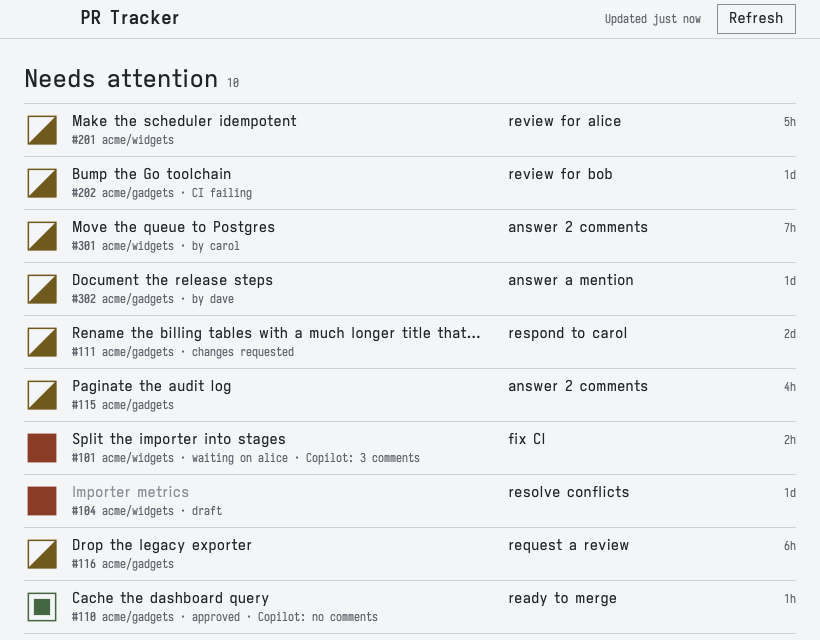
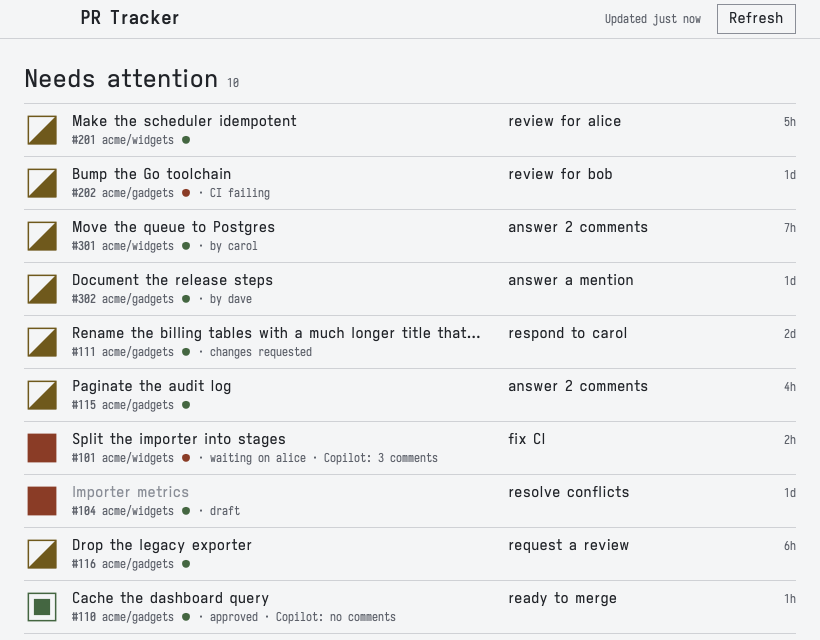
Show CI as a dot after the repository name
This replaces the amber approved glyph. The glyph says who has the
ball, and CI is a second state that every row can show: red, amber
while running, green.

diff --git a/Sources/TrackerApp/Views/PullRequestRow.swift b/Sources/TrackerApp/Views/PullRequestRow.swift
@@ -25,7 +25,7 @@ struct PullRequestRow: View {
                         .textStyle(.control)
                         .foregroundStyle(pullRequest.isDraft ? Palette.lineStrong : Palette.ink)
                         .lineLimit(1)
-                    Text("\(Text(verbatim: "#\(pullRequest.number)").font(TextStyle.labelStrong.font)) \(snapshot.facts(about: pullRequest).joined(separator: " · "))")
+                    facts
                         .textStyle(.label)
                         .foregroundStyle(quiet)
                         .lineLimit(2)
@@ -46,6 +46,16 @@ struct PullRequestRow: View {
         .padding(.vertical, Space.s2)
         .padding(.leading, CGFloat(depth) * Self.glyphSize)
         .overlay(alignment: .leading) { stackGuides }
+    }
+
+    /// The number, the repository, a dot in the colour of its CI, then the other facts.
+    private var facts: Text {
+        var line = Text("\(Text(verbatim: "#\(pullRequest.number)").font(TextStyle.labelStrong.font)) \(pullRequest.repository)")
+        if let color = pullRequest.checks.color {
+            line = Text("\(line) \(Text(verbatim: "●").foregroundStyle(isParked ? Palette.lineStrong : color))")
+        }
+        let rest = snapshot.facts(about: pullRequest)
+        return rest.isEmpty ? line : Text("\(line) · \(rest.joined(separator: " · "))")
     }
 
     /// A draft with nothing for me to do. The whole row drops to the disabled grey.

diff --git a/Sources/TrackerApp/Presentation/Status+Glyph.swift b/Sources/TrackerApp/Presentation/Status+Glyph.swift
@@ -3,12 +3,12 @@ import SwiftUI
 import TrackerCore
 
 extension Status {
-    /// Shape carries the meaning and colour repeats it. Approved with checks running is the one mix: the approved shape in the colour for not yet.
+    /// Shape carries the meaning and colour repeats it, so the two never disagree.
     var glyph: Glyph.Fill {
         switch self {
         case .failing: .solid
         case .attention: .half
-        case .ready, .approved: .nested
+        case .ready: .nested
         case .waiting: .empty
         }
     }
@@ -16,9 +16,21 @@ extension Status {
     var color: Color {
         switch self {
         case .failing: Palette.statusFailing
-        case .attention, .approved: Palette.statusAttention
+        case .attention: Palette.statusAttention
         case .ready: Palette.statusReady
         case .waiting: Palette.inkMuted
+        }
+    }
+}
+
+extension Checks {
+    /// The colour of the CI dot. Nil when the pull request has no checks.
+    var color: Color? {
+        switch self {
+        case .failing: Palette.statusFailing
+        case .pending: Palette.statusAttention
+        case .passing: Palette.statusReady
+        case .none: nil
         }
     }
 }

diff --git a/Sources/TrackerCore/Rules/Status.swift b/Sources/TrackerCore/Rules/Status.swift
@@ -8,8 +8,6 @@ public enum Status: Int, Comparable, Sendable {
     case attention
     /// It is approved and can merge, now or when the pull request beneath it does.
     case ready
-    /// It is approved, and its checks are still running.
-    case approved
     /// The ball is with someone else.
     case waiting
 
@@ -22,8 +20,7 @@ extension NextStep {
         case .fixChecks, .resolveConflicts: .failing
         case .review, .answerComments, .answerMention, .respond, .requestReview: .attention
         case .merge, .waitingOnStack: .ready
-        case .waitingOnChecks: .approved
-        case .waitingOnReviewers, .waitingOnAuthor, .draft: .waiting
+        case .waitingOnReviewers, .waitingOnChecks, .waitingOnAuthor, .draft: .waiting
         }
     }
 }

diff --git a/Tests/TrackerCoreTests/NextStepTests.swift b/Tests/TrackerCoreTests/NextStepTests.swift
@@ -217,7 +217,6 @@ import Testing
         #expect(Snapshot.fixture().status(of: .fixture(checks: .failing, unansweredThreads: 1)) == .failing)
         #expect(Snapshot.fixture().status(of: .fixture(reviewDecision: .approved, unansweredThreads: 1)) == .attention)
         #expect(Snapshot.fixture().status(of: .fixture(reviewDecision: .approved)) == .ready)
-        #expect(Snapshot.fixture().status(of: .fixture(checks: .pending, reviewDecision: .approved)) == .approved)
         #expect(Snapshot.fixture().status(of: .fixture(requestedReviewers: ["bob"])) == .waiting)
         #expect(Snapshot.fixture().status(of: .fixture(isDraft: true)) == .waiting)
     }

diff --git a/Sources/TrackerApp/Presentation/Snapshot+Facts.swift b/Sources/TrackerApp/Presentation/Snapshot+Facts.swift
@@ -27,9 +27,9 @@ extension Snapshot {
         }
     }
 
-    /// The quiet facts after the pull request's number. They add what the next step does not already say.
+    /// The quiet facts after the pull request's number and repository. They add what the next step does not already say.
     func facts(about pr: PullRequest) -> [String] {
-        var facts = [pr.repository]
+        var facts: [String] = []
         let isMine = pr.author == viewer
         let steps = nextSteps(for: pr)
         if pr.isDraft, steps != [.draft] { facts.append("draft") }

diff --git a/docs/design-system/README.md b/docs/design-system/README.md
@@ -35,7 +35,7 @@ Rules:
 
 ## Status colours
 
-There are three status colours. They are the only colours apart from the accent. They are for status glyphs, and for the bars of the app icon (see "App icon" below).
+There are three status colours. They are the only colours apart from the accent. They are for status glyphs, status dots, and the bars of the app icon (see "App icon" below).
 
 | Token | Paper and Stark | Dark | Use |
 | --- | --- | --- | --- |
@@ -45,9 +45,10 @@ There are three status colours. They are the only colours apart from the accent.
 
 Rules:
 
-- A status colour goes on a status glyph or a bar of the app icon, and nowhere else. Never on text, fills, borders or whole rows.
-- The glyph keeps its shape (see "Alerts" below): solid for failing, half filled for attention, square in a square for ready, empty for no status. Colour repeats what the shape says. One state mixes the two: something approved that cannot go ahead yet is the ready shape in `status-attention`. Colour is never the only signal, because red and green are hard to tell apart for some people.
+- A status colour goes on a status glyph, a status dot or a bar of the app icon, and nowhere else. Never on text, fills, borders or whole rows.
+- The glyph keeps its shape (see "Alerts" below): solid for failing, half filled for attention, square in a square for ready, empty for no status. Colour repeats what the shape says. It is never the only signal, because red and green are hard to tell apart for some people.
 - The text next to the glyph still says what the state is.
+- A status dot is a small round mark in a line of quiet text, for a second state of the same thing: here, the CI of a pull request. It is too small for a shape, so colour is its only signal. When the state needs the person, the text must say so too.
 - Something with no status has no colour. Most of the screen stays grey.
 - A status colour is not the accent. The accent still marks the one suggested next action.
 

diff --git a/docs/plans/v1-github-pr-tracker.md b/docs/plans/v1-github-pr-tracker.md
@@ -130,7 +130,7 @@ Every PR has a next step that says who has the ball, from one pure function `nex
 | Me | `request a review` | Not a draft, not approved, nobody is asked, and no review is waiting on me. | Amber |
 | Me | `ready to merge` | Not a draft, approved, checks not failing or running, no conflicts, and nothing open beneath it in its stack. | Green |
 | Others | `waiting on bob for 3d` | Reviewers are asked. The time is since the longest-waiting one was asked. | None |
-| Others | `waiting on CI` | Approved, and checks are still running. Not listed in Needs attention. | Amber, with the approved glyph |
+| Others | `waiting on CI` | Approved, and checks are still running. | None |
 | Others | `waiting on #175` | Approved and green, but stacked on an open PR. | Green |
 | Others | `waiting on alice` | Someone else's PR that I took part in, with nothing for me to answer. Not listed anywhere. | None |
 | Nobody | `draft` | A draft with nothing broken and nothing to answer. | None |

diff --git a/AGENTS.md b/AGENTS.md
@@ -61,6 +61,6 @@ Put a rule in `Rules` with a test, not in a view.
 
 - Use the tokens only: `Palette`, `Space`, `Stroke` and `TextStyle`. No other colours, sizes or radii.
 - Text is `ink` or `ink-muted`. `line-strong` is for disabled text, used here for parked drafts.
-- The three status colours go on status glyphs and the bars of the Dock icon, and nowhere else. The glyph's shape carries the meaning, and the colour repeats it. The one mix: approved with checks still running is the approved glyph in amber.
+- The three status colours go on status glyphs, the CI dot in a row and the bars of the Dock icon, and nowhere else. The glyph's shape carries the meaning, and the colour repeats it.
 - Sentence case. Short, plain words. Verbs on buttons.
 - Colours follow the system appearance: Paper in light, Dark in dark. A setting can fix the app to either one. Check both.
